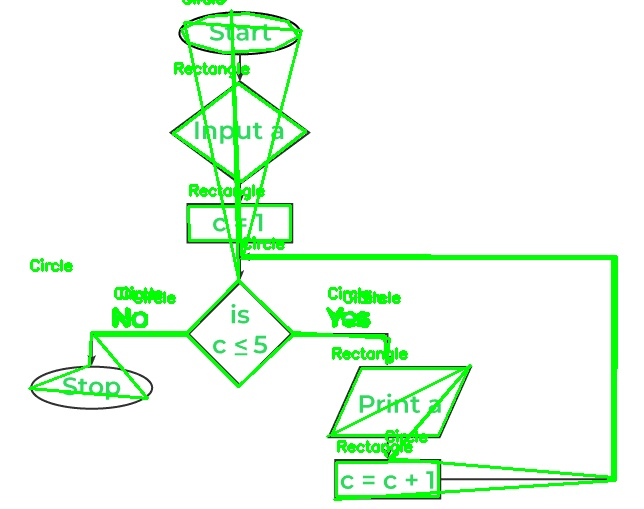
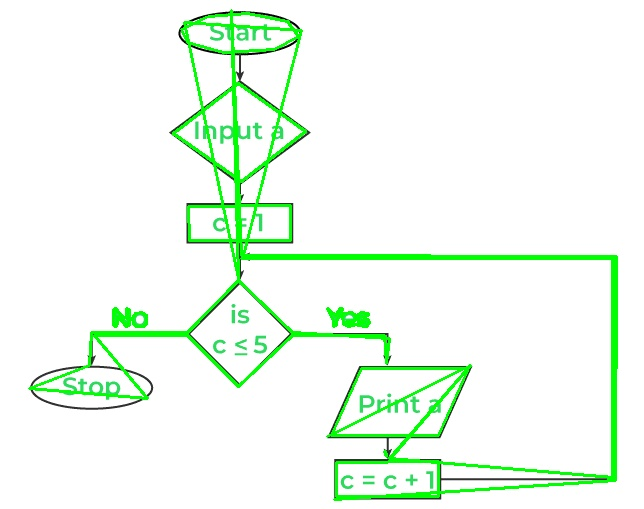
add text extractor.

diff --git a/utils/detect.py b/utils/detect.py
@@ -1,6 +1,8 @@
 import cv2
 import numpy as np
 
+from utils.recog import detect_text
+
 
 def detect_shapes(image: np.ndarray):
     shapes = []
@@ -40,13 +42,17 @@ def detect_shapes(image: np.ndarray):
         
         # Draw and label the detected shape
         cv2.drawContours(image, [approx], -1, (0, 255, 0), 2)
-        cv2.putText(image, shape_name, (x, y - 10), cv2.FONT_HERSHEY_SIMPLEX, 0.5, (0, 255, 0), 2)
+        # cv2.putText(image, shape_name, (x, y - 10), cv2.FONT_HERSHEY_SIMPLEX, 0.5, (0, 255, 0), 2)
+                # Extract text from the shape
+        shape_roi = image[y:y+h, x:x+w]
+        text = detect_text(shape_roi)
         
         # Append detected shape data
         shapes.append({
             "name": shape_name,
             "coordinate": {"x": float(center_x), "y": float(center_y)},
-            "color": color
+            "color": color,
+            "text": text
         })
     
     return shapes, image

diff --git a/utils/recog.py b/utils/recog.py
@@ -1,0 +1,18 @@
+import cv2
+import numpy as np
+import pytesseract
+
+
+def detect_text(roi: np.ndarray):
+    # Convert ROI to grayscale
+    gray = cv2.cvtColor(roi, cv2.COLOR_BGR2GRAY)
+    
+    # Apply Thresholding to make text more readable
+    _, binary = cv2.threshold(gray, 150, 255, cv2.THRESH_BINARY_INV + cv2.THRESH_OTSU)
+    
+    # Use pytesseract to extract text
+    custom_config = "--oem 3 --psm 6"
+    extracted_text = pytesseract.image_to_string(binary, config=custom_config)
+    extracted_text.replace("\n", " ")
+    
+    return extracted_text.strip()

diff --git a/README.md b/README.md
@@ -14,11 +14,24 @@ This tool is a simple tool that can detect shapes and recognize text from an ima
 ```bash
 git clone https://github.com/sntoshsah/shapeIden.git
 ```
-2. Install the required packages
+2. Change the directory
+```bash
+cd shapeIden
+```
+
+3. Create Virtual Environment
+```bash
+python3 -m venv env
+```
+4. Activate the virtual environment
+```bash
+source env/bin/activate
+```
+5. Install the required packages
 ```bash 
 pip install -r requirements.txt
 ```
-3. Run the tool
+6. Run the tool
 ```bash
 fastapi run main.py
 ```
